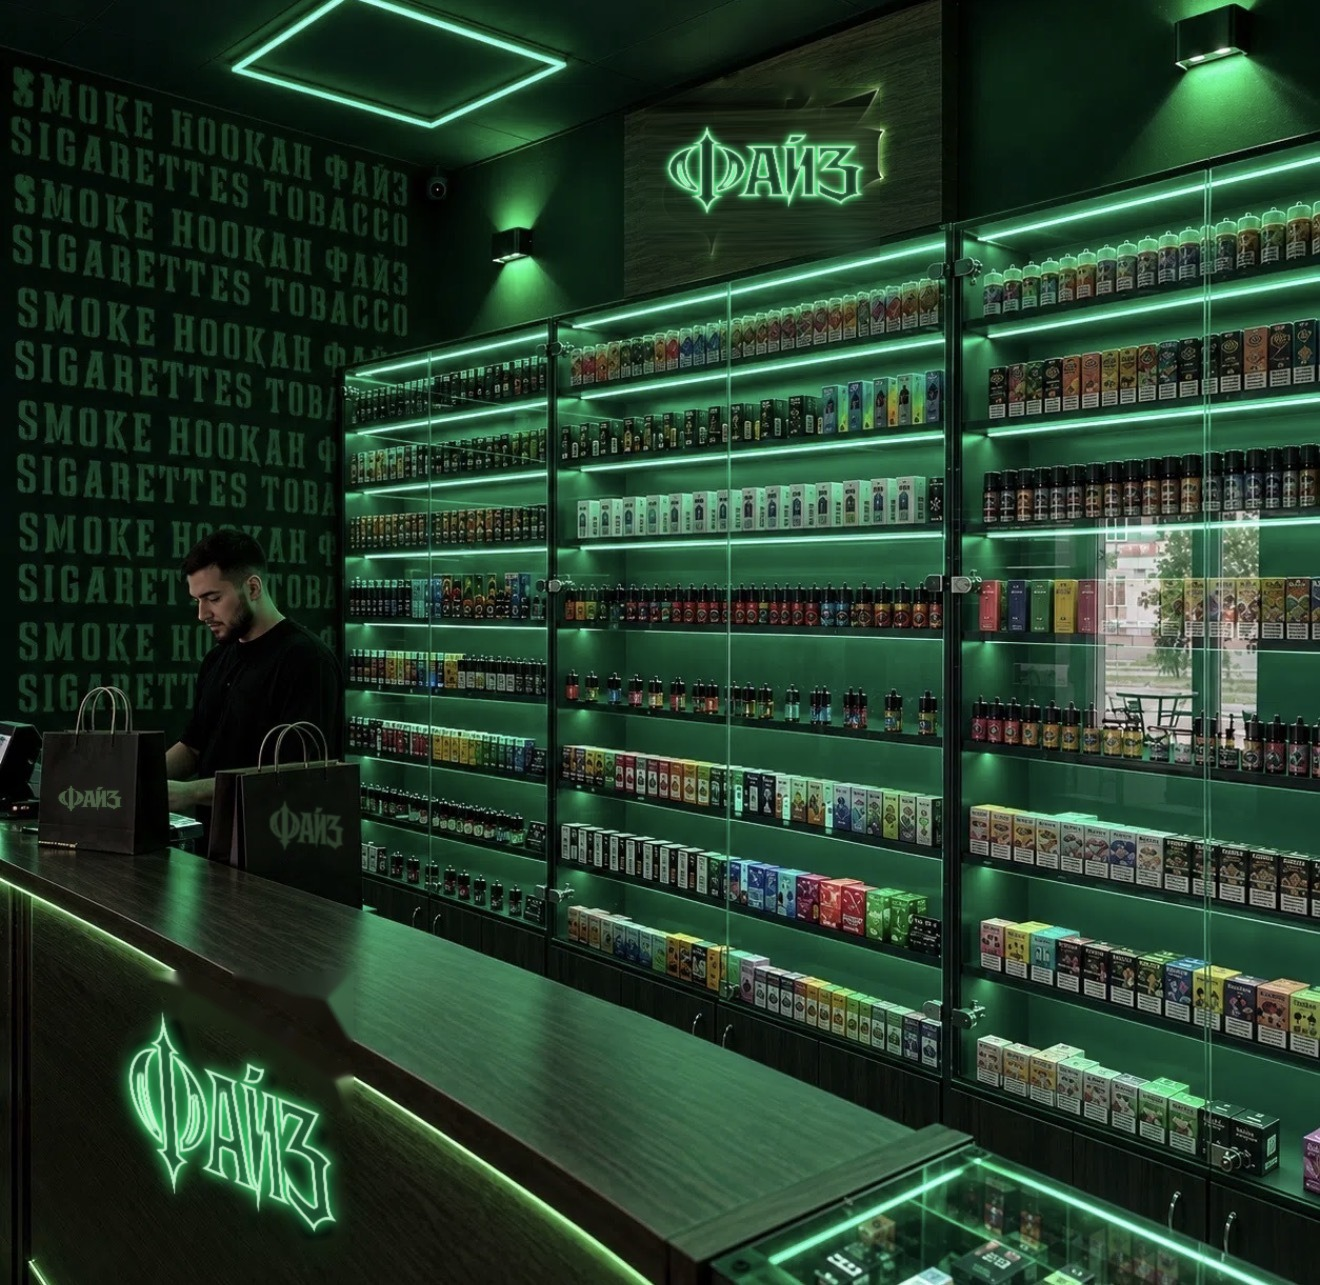
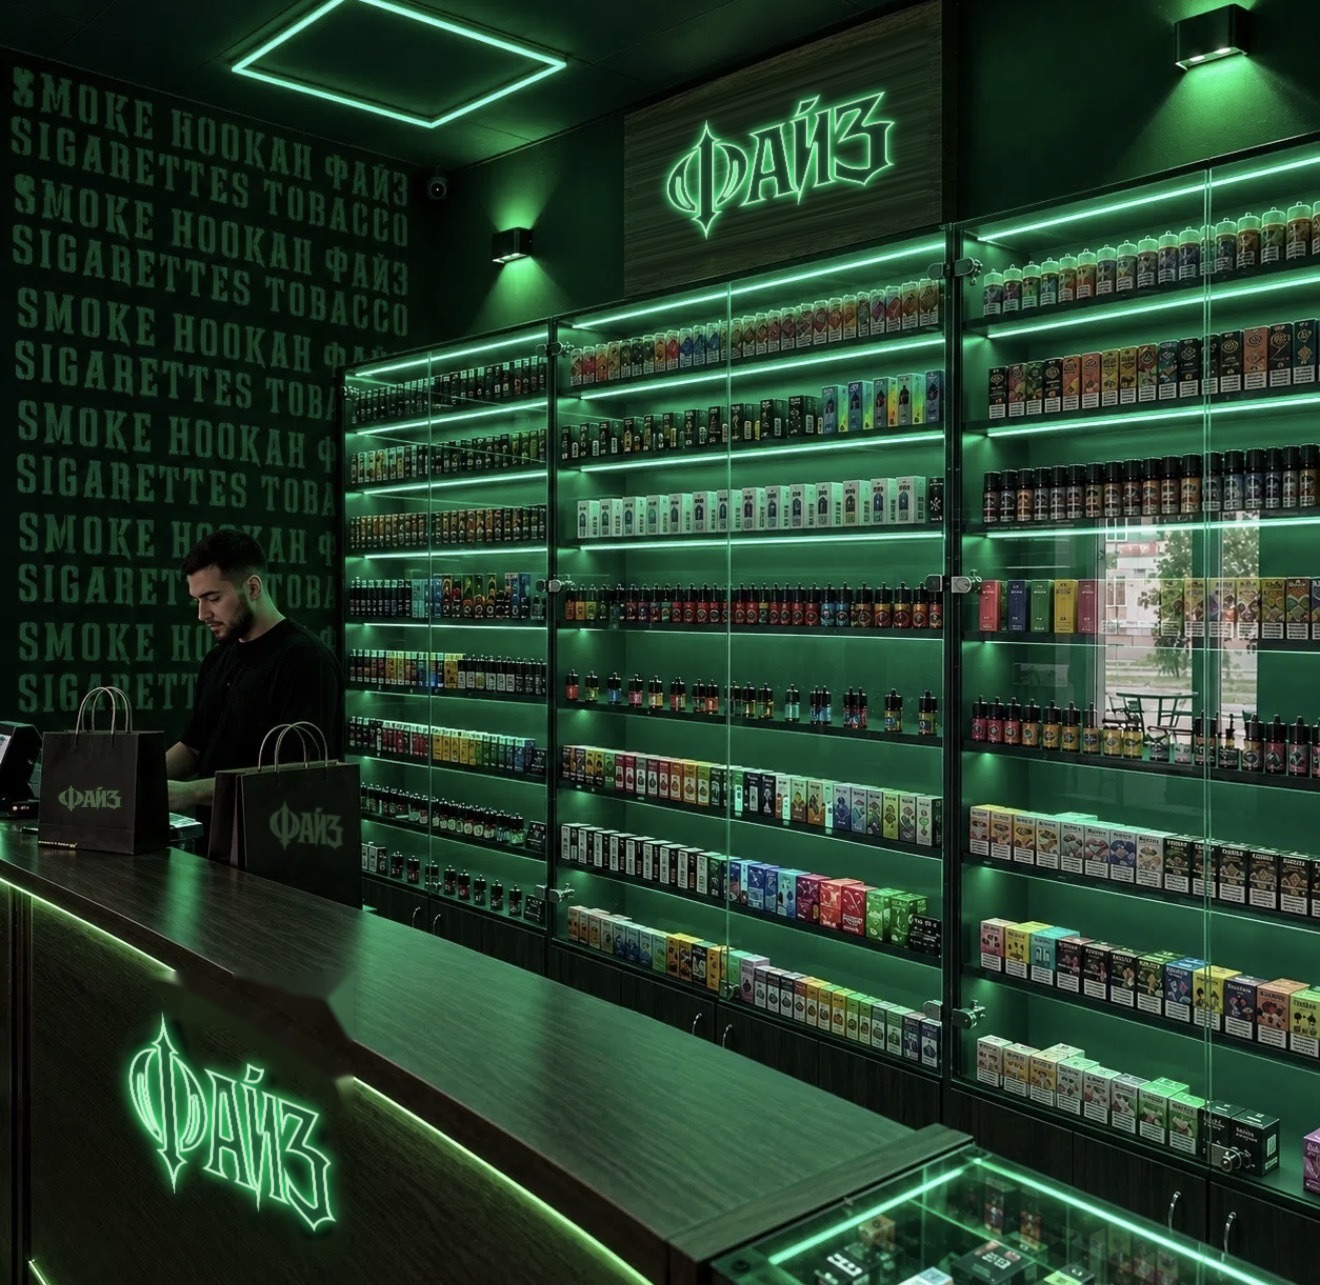
Фото экскурсии: логотип поставлен по перспективе поверхностей
Claude-Session: https://claude.ai/code/session_01VSfWyZc3nPNVEDJTGM8n6H

Changed region(s): [[0.497, 0.0623, 0.6833, 0.1868]]

diff --git a/index.html b/index.html
@@ -850,26 +850,26 @@ const mw=$$('#manifest .w');
 (()=>{
 const app=document.getElementById('tour'); if(!app) return;
 const S=[
-  {id:'facade',name:'Фасад',zone:'Улица',img:'img/facade.jpg?v=3',f:[.46,.6],
+  {id:'facade',name:'Фасад',zone:'Улица',img:'img/facade.jpg?v=4',f:[.46,.6],
    text:'Неоновая вывеска, панорамные витрины и узор из фирменных завитков. Дверь подсвечена — заходите.',
    door:{x:37.4,y:39.5,w:17.3,h:54.5},spots:[]},
-  {id:'main',name:'Главный зал',zone:'Зал',img:'img/interior.jpg?v=3',f:[.5,.5],
+  {id:'main',name:'Главный зал',zone:'Зал',img:'img/interior.jpg?v=4',f:[.5,.5],
    text:'Стеклянные стеллажи с подсветкой каждой полки. Весь ассортимент стоит на виду.',
    spots:[{x:35,y:60,to:'counter',label:'Стойка'},{x:80,y:40,to:'shelves',label:'Стеллажи'},
           {x:23,y:11,info:'Над стеллажами — перечень разделов магазина, чтобы сразу найти нужное.'}]},
-  {id:'counter',name:'Стойка',zone:'Касса',img:'img/counter.jpg?v=3',f:[.5,.38],
+  {id:'counter',name:'Стойка',zone:'Касса',img:'img/counter.jpg?v=4',f:[.5,.38],
    text:'Брендированная стойка с подсвеченным логотипом. Покупки упаковывают в фирменные пакеты ФАЙЗ.',
    spots:[{x:58,y:13,info:'Логотип на панели с контурной подсветкой.'},
           {x:12,y:30,info:'Стена с крупной типографикой в фирменном зелёном.'},
           {x:55,y:38,to:'shelves',label:'К стеллажам'},
           {x:22,y:55,info:'Фирменные пакеты ФАЙЗ — чёрные, с логотипом.'}]},
-  {id:'shelves',name:'Стеллажи',zone:'Ассортимент',img:'img/shelves.jpg?v=3',f:[.5,.45],
+  {id:'shelves',name:'Стеллажи',zone:'Ассортимент',img:'img/shelves.jpg?v=4',f:[.5,.45],
    text:'Позиции разложены по линейкам, подсветка по краю полки делает каждую позицию читаемой.',
    spots:[{x:40,y:34,info:'Флаконы расставлены по брендам.'},{x:48,y:66,to:'consult',label:'Консультация'}]},
-  {id:'consult',name:'Консультация',zone:'Сервис',img:'img/consult.jpg?v=3',f:[.5,.45],
+  {id:'consult',name:'Консультация',zone:'Сервис',img:'img/consult.jpg?v=4',f:[.5,.45],
    text:'Консультант поможет подобрать нужное и объяснит разницу между линейками.',
    spots:[{x:52,y:41,info:'Подбор прямо у витрины: консультант показывает линейки и объясняет разницу.'},{x:84,y:30,to:'lifestyle',label:'Зона отдыха'}]},
-  {id:'lifestyle',name:'Зона отдыха',zone:'Отдых',img:'img/lifestyle.jpg?v=3',f:[.5,.55],
+  {id:'lifestyle',name:'Зона отдыха',zone:'Отдых',img:'img/lifestyle.jpg?v=4',f:[.5,.55],
    text:'Кресло, столик и вид на улицу через витрину с логотипом. Место, где можно не спешить.',
    spots:[{x:55,y:66,info:'Мягкое кресло и столик — можно присесть и спокойно рассмотреть покупку.',left:true},{x:86,y:42,to:'main',label:'Обратно в зал',left:true}]}
 ];
